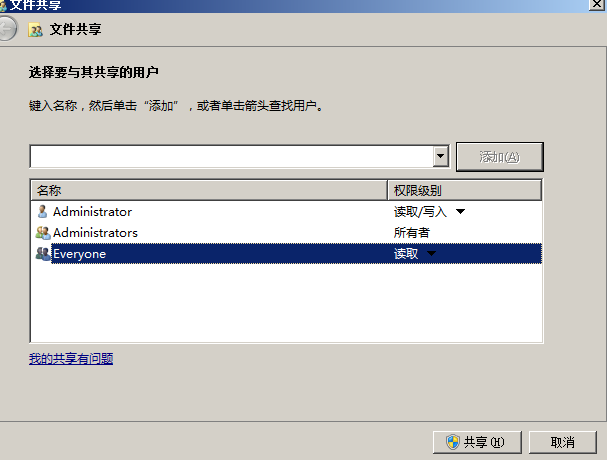
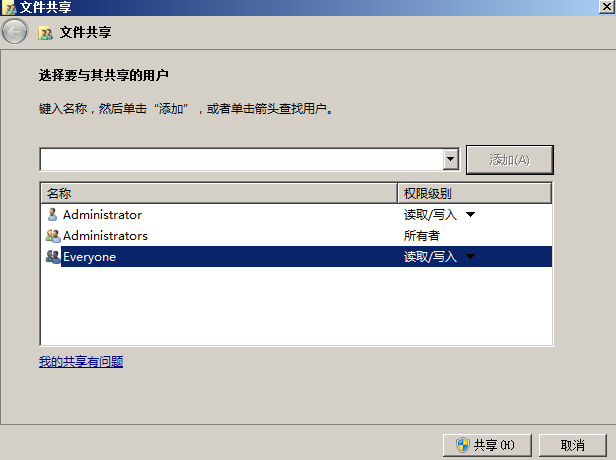
...

diff --git a/sqlserver发布订阅/sqlserver发布订阅.md b/sqlserver发布订阅/sqlserver发布订阅.md
@@ -1,14 +1,17 @@
 # 主服务器
 
 防火墙开放1433端口
+
 ![image.gif](1.gif)
+
 ![image.png](1.png)
 
 ![image.png](2.png)
 
-新建文件夹,设置局域网共享
+新建文件夹,设置局域网共享需everyone 读取/写入
 
 ![image.png](3.png)
+
 ![image.png](4.png)
 
 启动sqlserver代理,并设置自启动
@@ -18,6 +21,7 @@
 建个测试数据库
 
 ![image.png](6.png)
+
 ![image.png](7.png)
 
 配置分发
@@ -35,6 +39,7 @@
 右键本地发布 新建发布
 
 ![image.png](10.png)
+
 ![image.png](11.png)
 
 选事务发布,快照发布可能相当于全量备份还原,对等发布是多主复制,合并发布不明确
@@ -52,6 +57,7 @@
 立即创建快照,正式环境还可以定时运行,节省服务器压力
 
 ![image.png](15.png)
+
 ![image.png](16.png)
 
 设置账号密码
@@ -71,6 +77,7 @@
 输入主服务器名称以及登录名密码,据说不能用IP
 
 ![image.png](20.png)
+
 ![image.png](21.png)
 
 选第一个,第二个未跑通据说跟权限设置相关
@@ -80,7 +87,9 @@
 新建订阅数据库
 
 ![image.png](23.png)
+
 ![image.png](24.png)
+
 ![image.png](25.png)
 
 此处可定时获取,未尝试,目测问题不大
